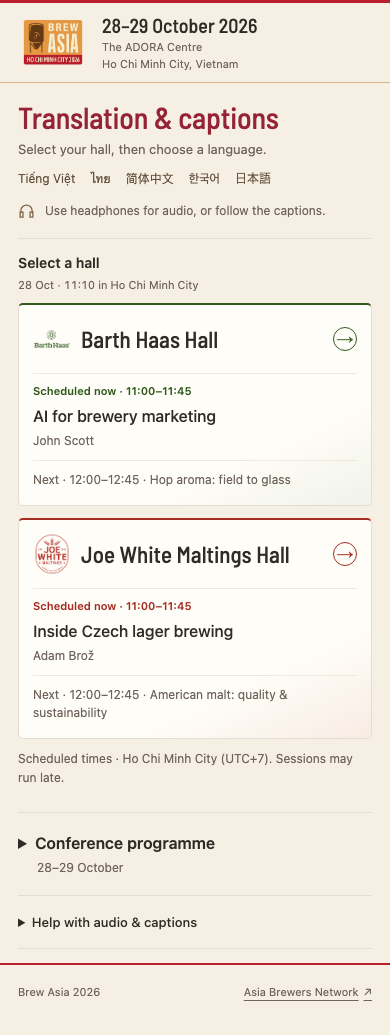
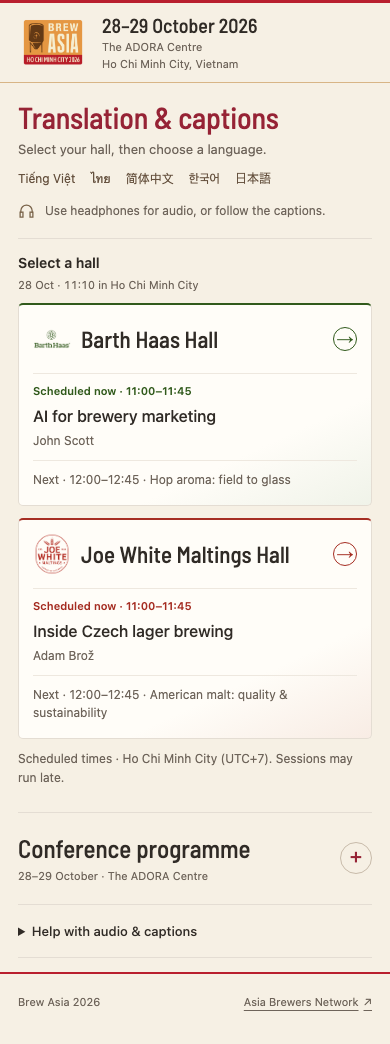
Refine hall context and conference programme layout

diff --git a/public/schedule-view.js b/public/schedule-view.js
@@ -1,6 +1,6 @@
 import { normalizeSchedule, hallSchedule, eventDay, eventTime, defaultDay, dayLabel } from './schedule-core.js';
 const $ = id => document.getElementById(id);
-let schedule, halls = [], chosenHall, choose, selectedDay = defaultDay(), agendaSignature = '';
+let schedule, scheduleFailed = false, halls = [], chosenHall, choose, selectedDay = defaultDay(), agendaSignature = '';
 function text(tag, content, className = '') {
   const element = document.createElement(tag);
   element.textContent = content;
@@ -30,6 +30,21 @@ function summary(hall, now) {
   }
   return group;
 }
+function compactSummary(hall, now) {
+  const { current, next, shared, ended } = hallSchedule(schedule, hall, now);
+  const group = document.createElement('div');
+  const item = current || next;
+  if (item) {
+    group.append(text('p', `${current ? 'Scheduled now' : 'Up next'} · ${timeRange(item, now)}`, 'schedule-label'));
+    group.append(text('p', item.title, 'schedule-title'));
+    if (item.speaker) group.append(text('p', item.speaker, 'schedule-speaker'));
+    if (current && next) group.append(text('p', `Up next · ${timeRange(next, now)} · ${next.title}`, 'context-next'));
+  } else {
+    group.append(text('p', ended ? 'Hall programme complete' : shared ? shared.title : 'No session scheduled now', 'schedule-label quiet'));
+    group.append(text('p', 'See the conference programme below.', 'schedule-speaker'));
+  }
+  return group;
+}
 function replaceIfChanged(target, content) {
   if (target.textContent !== content.textContent) target.replaceChildren(content);
 }
@@ -49,19 +64,36 @@ function renderAgenda(now) {
     row.className = item.hall === null ? 'agenda-entry shared-entry' : `agenda-entry hall-${item.hall}`;
     const isCurrent = Date.parse(item.start) <= +now && +now < Date.parse(item.end);
     if (isCurrent) row.classList.add('scheduled-current');
-    row.append(text('p', `${eventTime(item.start)}–${eventTime(item.end)}${isCurrent ? ' · Scheduled now' : ''}`, 'agenda-time'));
+    const times = document.createElement('div');
+    times.className = 'agenda-time';
+    const start = text('time', eventTime(item.start), 'agenda-start');
+    start.dateTime = item.start;
+    const end = text('time', eventTime(item.end), 'agenda-end');
+    end.dateTime = item.end;
+    times.append(start, text('span', '–', 'time-separator'), end);
+    const content = document.createElement('div');
+    content.className = 'agenda-content';
     const location = item.hall === null ? item.location || 'Shared programme' : halls.find(h => h.id === item.hall).name;
-    row.append(text('p', `${location}${item.kind ? ' · ' + item.kind : ''}`, 'agenda-location'));
-    row.append(text('h3', item.title));
-    if (item.speaker) row.append(text('p', item.speaker, 'schedule-speaker'));
-    if (item.note) row.append(text('p', item.note, 'agenda-note'));
+    const meta = document.createElement('div');
+    meta.className = 'agenda-meta';
+    meta.append(text('p', location, 'agenda-location'));
+    if (isCurrent) meta.append(text('span', 'Scheduled now', 'agenda-current'));
+    content.append(meta);
+    content.append(text('h3', item.title));
+    if (item.speaker) content.append(text('p', item.speaker, 'schedule-speaker'));
+    if (item.note) content.append(text('p', item.note, 'agenda-note'));
+    const foot = document.createElement('div');
+    foot.className = 'agenda-foot';
+    if (item.kind && item.hall !== null) foot.append(text('span', item.kind, 'agenda-kind'));
     if (item.hall !== null) {
-      const button = text('button', 'Choose this hall →', 'agenda-choose');
+      const button = text('button', 'Listen in this hall →', 'agenda-choose');
       button.type = 'button';
       button.setAttribute('aria-label', `Choose ${location} for ${item.title}`);
       button.addEventListener('click', () => choose(halls.find(h => h.id === item.hall)));
-      row.append(button);
+      foot.append(button);
     }
+    if (foot.childNodes.length) content.append(foot);
+    row.append(times, content);
     list.append(row);
   }
   $('programme-list').replaceChildren(list);
@@ -69,12 +101,15 @@ function renderAgenda(now) {
 function refresh() {
   const now = new Date();
   $('programme-clock').textContent = `${dayLabel(eventDay(now))} · ${eventTime(now)} in Ho Chi Minh City`;
-  if (!schedule) return;
+  if (!schedule) {
+    if (chosenHall) $('selected-programme').textContent = scheduleFailed ? 'Programme unavailable. You can still listen.' : 'Programme loading…';
+    return;
+  }
   for (const hall of halls) {
     const target = document.querySelector(`[data-schedule-hall="${hall.id}"]`);
     if (target) replaceIfChanged(target, summary(hall.id, now));
   }
-  if (chosenHall) replaceIfChanged($('selected-programme'), summary(chosenHall, now));
+  if (chosenHall) replaceIfChanged($('selected-programme'), compactSummary(chosenHall, now));
   renderAgenda(now);
 }
 export function setProgrammeHall(id) { chosenHall = id; refresh(); }
@@ -105,6 +140,8 @@ export async function startProgramme(configuredHalls, onChoose) {
     document.addEventListener('visibilitychange', () => { if (!document.hidden) refresh(); });
     window.addEventListener('pageshow', refresh);
   } catch {
+    scheduleFailed = true;
+    refresh();
     document.querySelectorAll('[data-schedule-hall]').forEach(node => { node.textContent = 'Programme unavailable. You can still choose this hall to listen.'; });
     $('programme-list').replaceChildren(text('p', 'The timetable could not load. Check the official programme below or ask the event team.', 'notice'));
   }

diff --git a/public/styles.css b/public/styles.css
@@ -210,3 +210,59 @@ footer a { display: inline-flex; align-items: center; gap: 5px; min-height: 44px
 .is-listening .session-screen { height: calc(100svh - 84px); min-height: 420px; max-height: 1000px; display: flex; flex-direction: column; }
 .is-listening #frame-container { flex: 1; min-height: 0; }
 .is-listening .wordly-frame { height: 100%; min-height: 0; max-height: none; }
+
+/* Timetable: a compact room summary and a readable printed-programme rhythm. */
+.session-context { --hall: #315a1c; border-left: 2px solid var(--hall); padding: 2px 0 2px 13px !important; margin: 3px 0 22px; font-size: 12px; line-height: 1.5; color: var(--muted); }
+.session-context[data-hall="b"] { --hall: #a52d22; }
+.session-context .schedule-title { color: var(--ink); font: 500 21px/1.25 var(--display); margin: 5px 0 3px; }
+.session-context .schedule-label { font-size: 11px; letter-spacing: .2px; }
+.context-next { font-size: 11px; line-height: 1.5; margin-top: 8px; }
+.is-listening .session-context { display: none; }
+.programme > summary { display: flex; align-items: center; justify-content: space-between; gap: 14px; list-style: none; padding: 20px 0; }
+.programme > summary::-webkit-details-marker { display: none; }
+.programme-toggle::before { content: '+'; font: 400 22px/1 sans-serif; color: #962335; width: 30px; height: 30px; display: grid; place-items: center; border: 1px solid #c8bbaa; border-radius: 50%; flex-shrink: 0; }
+.programme[open] .programme-toggle::before { content: '−'; }
+.programme-heading { font: 500 25px/1.2 var(--display); }
+.programme-subtitle { display: block; color: var(--muted); font: 400 11px/1.5 -apple-system, BlinkMacSystemFont, 'Segoe UI', sans-serif; margin-top: 5px; }
+.day-picker { gap: 0; border: 1px solid #d5c8b7; border-radius: 6px; overflow: hidden; margin: 0 0 18px; background: #fffdf8; }
+.day-picker button { display: flex; align-items: center; justify-content: center; gap: 12px; border: 0; border-radius: 0; border-bottom: 3px solid transparent; background: transparent; padding: 11px 10px 9px; text-align: left; }
+.day-picker button + button { border-left: 1px solid #d5c8b7; }
+.day-picker button[aria-pressed=true] { background: #f2e6d4; color: #74202d; border-bottom-color: var(--red); }
+.day-picker button:focus-visible { outline-offset: -4px; }
+.day-number { font: 500 32px/1 var(--display); }
+.day-name { display: flex; flex-direction: column; gap: 3px; font-size: 12px; }
+.day-name span { font-size: 10px; font-weight: 400; color: var(--muted); }
+.programme-body > label { font-size: 12px; margin-bottom: 7px; }
+#programme-hall { padding: 10px 12px; border-color: #c8bbaa; border-radius: 5px; }
+.programme-body > .small { font-size: 11px; }
+.agenda-list { margin-top: 22px; }
+.agenda-entry { --hall: #315a1c; display: grid; grid-template-columns: 64px minmax(0,1fr); column-gap: 12px; border: 0; margin: 0; padding: 0 0 12px; }
+.agenda-entry.hall-b { --hall: #a52d22; }
+.agenda-time { padding-top: 13px; display: flex; flex-direction: column; align-items: flex-start; gap: 4px; color: var(--ink); }
+.agenda-start { font: 500 23px/1 var(--display); font-variant-numeric: tabular-nums; }
+.agenda-end { font-size: 11px; font-weight: 400; color: var(--muted); }
+.time-separator { position: absolute; width: 1px; height: 1px; overflow: hidden; clip-path: inset(50%); }
+.agenda-content { min-width: 0; padding: 13px 14px 4px; background: #fffdf8; border: 1px solid #e7dece; border-left: 2px solid var(--hall); border-radius: 0 5px 5px 0; }
+.agenda-meta { display: flex; flex-wrap: wrap; gap: 6px 10px; align-items: center; margin-bottom: 7px; }
+.agenda-location { font-size: 10px; font-weight: 600; color: var(--hall); margin: 0; line-height: 1.5; }
+.agenda-entry h3 { font: 500 21px/1.25 var(--display); margin: 0 0 5px; }
+.agenda-content .schedule-speaker { font-size: 12px; }
+.agenda-foot { display: flex; align-items: center; flex-wrap: wrap; gap: 0 10px; margin-top: 6px; }
+.agenda-kind { color: var(--muted); font-size: 10px; }
+.agenda-choose { margin-left: auto; min-height: 44px; padding: 12px 0; font-size: 11px; color: var(--hall); text-decoration: none; }
+.agenda-choose:hover { text-decoration: underline; }
+.agenda-entry.scheduled-current { background: transparent; padding-right: 0; }
+.scheduled-current .agenda-content { background: #f8f0df; border-top-color: #d1b989; border-bottom-color: #d1b989; border-right-color: #d1b989; }
+.agenda-current { font-size: 10px; color: #68441b; background: #eddfc3; padding: 2px 5px; border-radius: 3px; }
+.agenda-note { font-size: 11px; }
+.shared-entry { --hall: #796349; padding-right: 0; }
+.shared-entry .agenda-content { background: transparent; border: 0; border-left: 2px solid #c9bba7; border-radius: 0; padding-bottom: 13px; }
+.shared-entry h3 { font-size: 19px; }
+.source-link { font-size: 12px; }
+@media (max-width:350px) {
+  .agenda-entry { grid-template-columns: 53px minmax(0,1fr); column-gap: 8px; }
+  .agenda-content { padding-left: 11px; padding-right: 11px; }
+  .agenda-start { font-size: 21px; }
+  .day-picker button { gap: 8px; }
+  .day-number { font-size: 29px; }
+}

diff --git a/public/index.html b/public/index.html
@@ -46,6 +46,7 @@
     <section id="session" class="session" aria-labelledby="session-title" hidden>
       <div class="session-screen">
       <div class="section-heading"><h1 id="session-title" tabindex="-1"></h1><button id="change-hall" class="text-button" type="button">Change hall</button></div>
+      <div id="selected-programme" class="session-context" aria-live="polite"></div>
       <div id="embed-controls">
         <label for="language">Choose your language</label>
         <div class="join-controls"><select id="language"></select><button id="join" class="primary" type="button">Start listening</button></div>
@@ -65,16 +66,15 @@
           <p class="small">The direct connection opens in this tab. If it still does not work, ask the event team or use the original hall QR code.</p>
         </div>
       </details>
-      <details id="session-programme" class="session-programme"><summary>In this hall · scheduled programme</summary><div id="selected-programme" aria-live="polite"></div></details>
     </section>
     <details id="programme" class="programme">
-      <summary><span>Conference programme</span><span class="small">28–29 October</span></summary>
+      <summary><span class="programme-heading">Conference programme<span class="programme-subtitle">28–29 October · The ADORA Centre</span></span><span class="programme-toggle" aria-hidden="true"></span></summary>
       <div class="programme-body">
-        <div class="day-picker" role="group" aria-label="Programme date"><button type="button" data-day="2026-10-28" aria-pressed="true">Wed 28 Oct</button><button type="button" data-day="2026-10-29" aria-pressed="false">Thu 29 Oct</button></div>
-        <label for="programme-hall">Show sessions</label><select id="programme-hall"><option value="all">Both halls &amp; shared activities</option></select>
-        <p class="small">Times are local to Ho Chi Minh City. Short titles are used here; see the official programme for full descriptions.</p>
+        <div class="day-picker" role="group" aria-label="Programme date"><button type="button" data-day="2026-10-28" aria-pressed="true"><span class="day-number">28</span><span class="day-name">Wednesday<span>October</span></span></button><button type="button" data-day="2026-10-29" aria-pressed="false"><span class="day-number">29</span><span class="day-name">Thursday<span>October</span></span></button></div>
+        <label for="programme-hall">Programme by hall</label><select id="programme-hall"><option value="all">All halls &amp; shared activities</option></select>
+        <p class="small">Ho Chi Minh City time (UTC+7) · Timings may change.</p>
         <div id="programme-list"><p class="small">Loading the programme…</p></div>
-        <a class="source-link" href="https://www.brew-asia.com/conference" target="_blank" rel="noopener noreferrer">Official conference programme <span aria-hidden="true">↗</span></a>
+        <a class="source-link" href="https://www.brew-asia.com/conference" target="_blank" rel="noopener noreferrer">Full session descriptions <span aria-hidden="true">↗</span></a>
       </div>
     </details>
     <details id="general-help" class="help"><summary>Help with audio &amp; captions</summary><div><p><strong>No sound?</strong> Connect headphones, check your phone’s media volume and tap the audio control in the listening panel. Returning from a locked screen may require another tap.</p><p><strong>Blank or disconnected?</strong> Check your internet connection. Select your hall and open Help for a direct connection, or use the original interpretation QR code.</p><p><strong>Changing rooms?</strong> Select the other hall here. Close any separate listening tabs that are still playing.</p><p>If you still need help, ask the event team. Captions and audio depend on the hall’s interpretation feed and your internet connection.</p></div></details>

diff --git a/public/app.js b/public/app.js
@@ -53,7 +53,7 @@ function selectHall(hall) {
   document.querySelector('.chooser').hidden = true;
   $('general-help').hidden = true;
   $('programme').open = false;
-  $('session-programme').open = false;
+  $('selected-programme').dataset.hall = hall.id;
   $('session-title').textContent = hall.name;
   setProgrammeHall(hall.id);
   const canEmbed = config.mode === 'embed' && !!hall.embedUrl;

diff --git a/README.md b/README.md
@@ -17,7 +17,7 @@ The organizer-supplied pairs are in `public/config.json`:
 
 Hall spelling now follows the official conference programme, checked on 27 October 2026. Internal IDs `a` and `b` are only navigation keys; they do not assert an official Hall A/B signage mapping. Confirm physical signage and whether these interpretation sessions remain valid on both dates. No presenter links or settings are used.
 
-## Event identity and programme (v1.4)
+## Event identity and programme (v1.5)
 
 The design uses the official public Brew Asia 2026 event mark and hall logos, restrained event colors, medium-weight event headings, system body text and compact hall cards. Warm paper tones, subtle hall tints and a desktop brewing illustration retain the event identity. Promotional slogans have been removed; instructions describe what attendees need to do. Asset provenance is in `docs/BRAND-SOURCES.md`. All design assets load from the portal itself.
 
@@ -69,7 +69,7 @@ Edit `public/config.json`, then rebuild. `config.example.json` is an empty, port
 - Duplicate hall session IDs fail closed. Unknown origins, presenter paths and undocumented iframe parameters are rejected. If Wordly supplies a new URL format, verify its official documentation before adjusting the validator.
 - Direct attendee URLs are preserved. Language/display parameters are applied only to iframe URLs; attendees select their language inside Wordly when using a direct link.
 
-Selecting a hall opens a focused setup view. Starting hides the outer language setup, leaving the hall name, Change hall, a short audio instruction and the captions frame. Use the provider’s internal language control while listening. Programme details and recovery controls sit below the frame. Help contains Reload captions, Stop listening and Try the direct connection. Reload uses the original setup language; an in-frame language change cannot be read by the wrapper.
+Selecting a hall opens a focused setup view. Starting hides the outer language setup, leaving the hall name, Change hall, a short audio instruction and the captions frame. Use the provider’s internal language control while listening. Before listening, a compact scheduled-now/up-next summary sits below the hall title and above language selection. It hides during listening; the full programme and recovery controls remain below the frame. The agenda uses aligned times, hall-coloured session panels, lighter shared-event entries and date tabs. Help contains Reload captions, Stop listening and Try the direct connection. Reload uses the original setup language; an in-frame language change cannot be read by the wrapper.
 
 Only one iframe exists at a time. Change hall, Stop listening, going offline, or navigating away removes the old iframe. Starting/reloading requires a tap. Stop listening returns to setup, where a different starting language can be chosen. Audio still requires Wordly’s own user gesture. Separate browser tabs and other devices cannot be controlled by this portal.
 
@@ -102,6 +102,7 @@ Optional test deep links on that same root are `?hall=a&lang=vi` and `?hall=b&la
 - `docs/TEST-RESULTS.md`: completed evidence and untested risks.
 - `docs/phone-preview.jpg`: first mobile viewport at 390 × 844 CSS pixels.
 - `docs/desktop-preview.jpg`: desktop hall chooser.
+- `docs/programme-preview.png`: expanded programme with a simulated event clock.
 - `docs/listening-preview.png`: active mobile layout with a visibly simulated provider response; not a live-feed capture.
 - `docs/mobile-preview.png`: captured portal landing page on preparation day.
 - `docs/schedule-preview.png`: a **simulated 28 October, 11:10** timetable view for design review; not evidence of a live broadcast.

diff --git a/docs/TEST-RESULTS.md b/docs/TEST-RESULTS.md
@@ -59,3 +59,9 @@ Validation: 14 unit tests and 18 browser tests, including focused-view layout, f
 Initial local test attempts required loopback permission and the already downloaded matching Chromium path; an outdated test locator for hidden hall controls was corrected before the final suite. These were tooling/test issues, not a live-provider test.
 
 Revision 1.4 deployed successfully through GitHub Actions run 40547506488 from commit `911dfa2693bba1553a0974f99ac7276a850b2642`. The final browser suite completed with 18 passes in 3.4 seconds; the unit suite passed all 14 checks.
+
+## Revision 1.5 — hall context and programme polish, 28 October
+
+The selected hall’s compact scheduled-now/up-next summary now appears beneath its title and above the language selector. The redundant collapsed hall summary has been removed; starting still hides the summary to preserve caption space. Time and schedule state remain timetable-derived, not broadcast detection.
+
+The agenda now separates start/end times from session content, uses the established hall colours, refines date tabs, and treats shared activities more quietly. Date and hall filtering, workshop notes, correct room selection, keyboard focus and current-session highlighting remain intact. The expanded programme was checked at 320, 390, 768 and 1440 widths and with automated accessibility checks. Tests also check summary placement, exact schedule-boundary updates and preservation of the active iframe. All 14 unit and 18 browser checks pass; the provider frame is simulated. Real-device acceptance of this revision remains pending.
